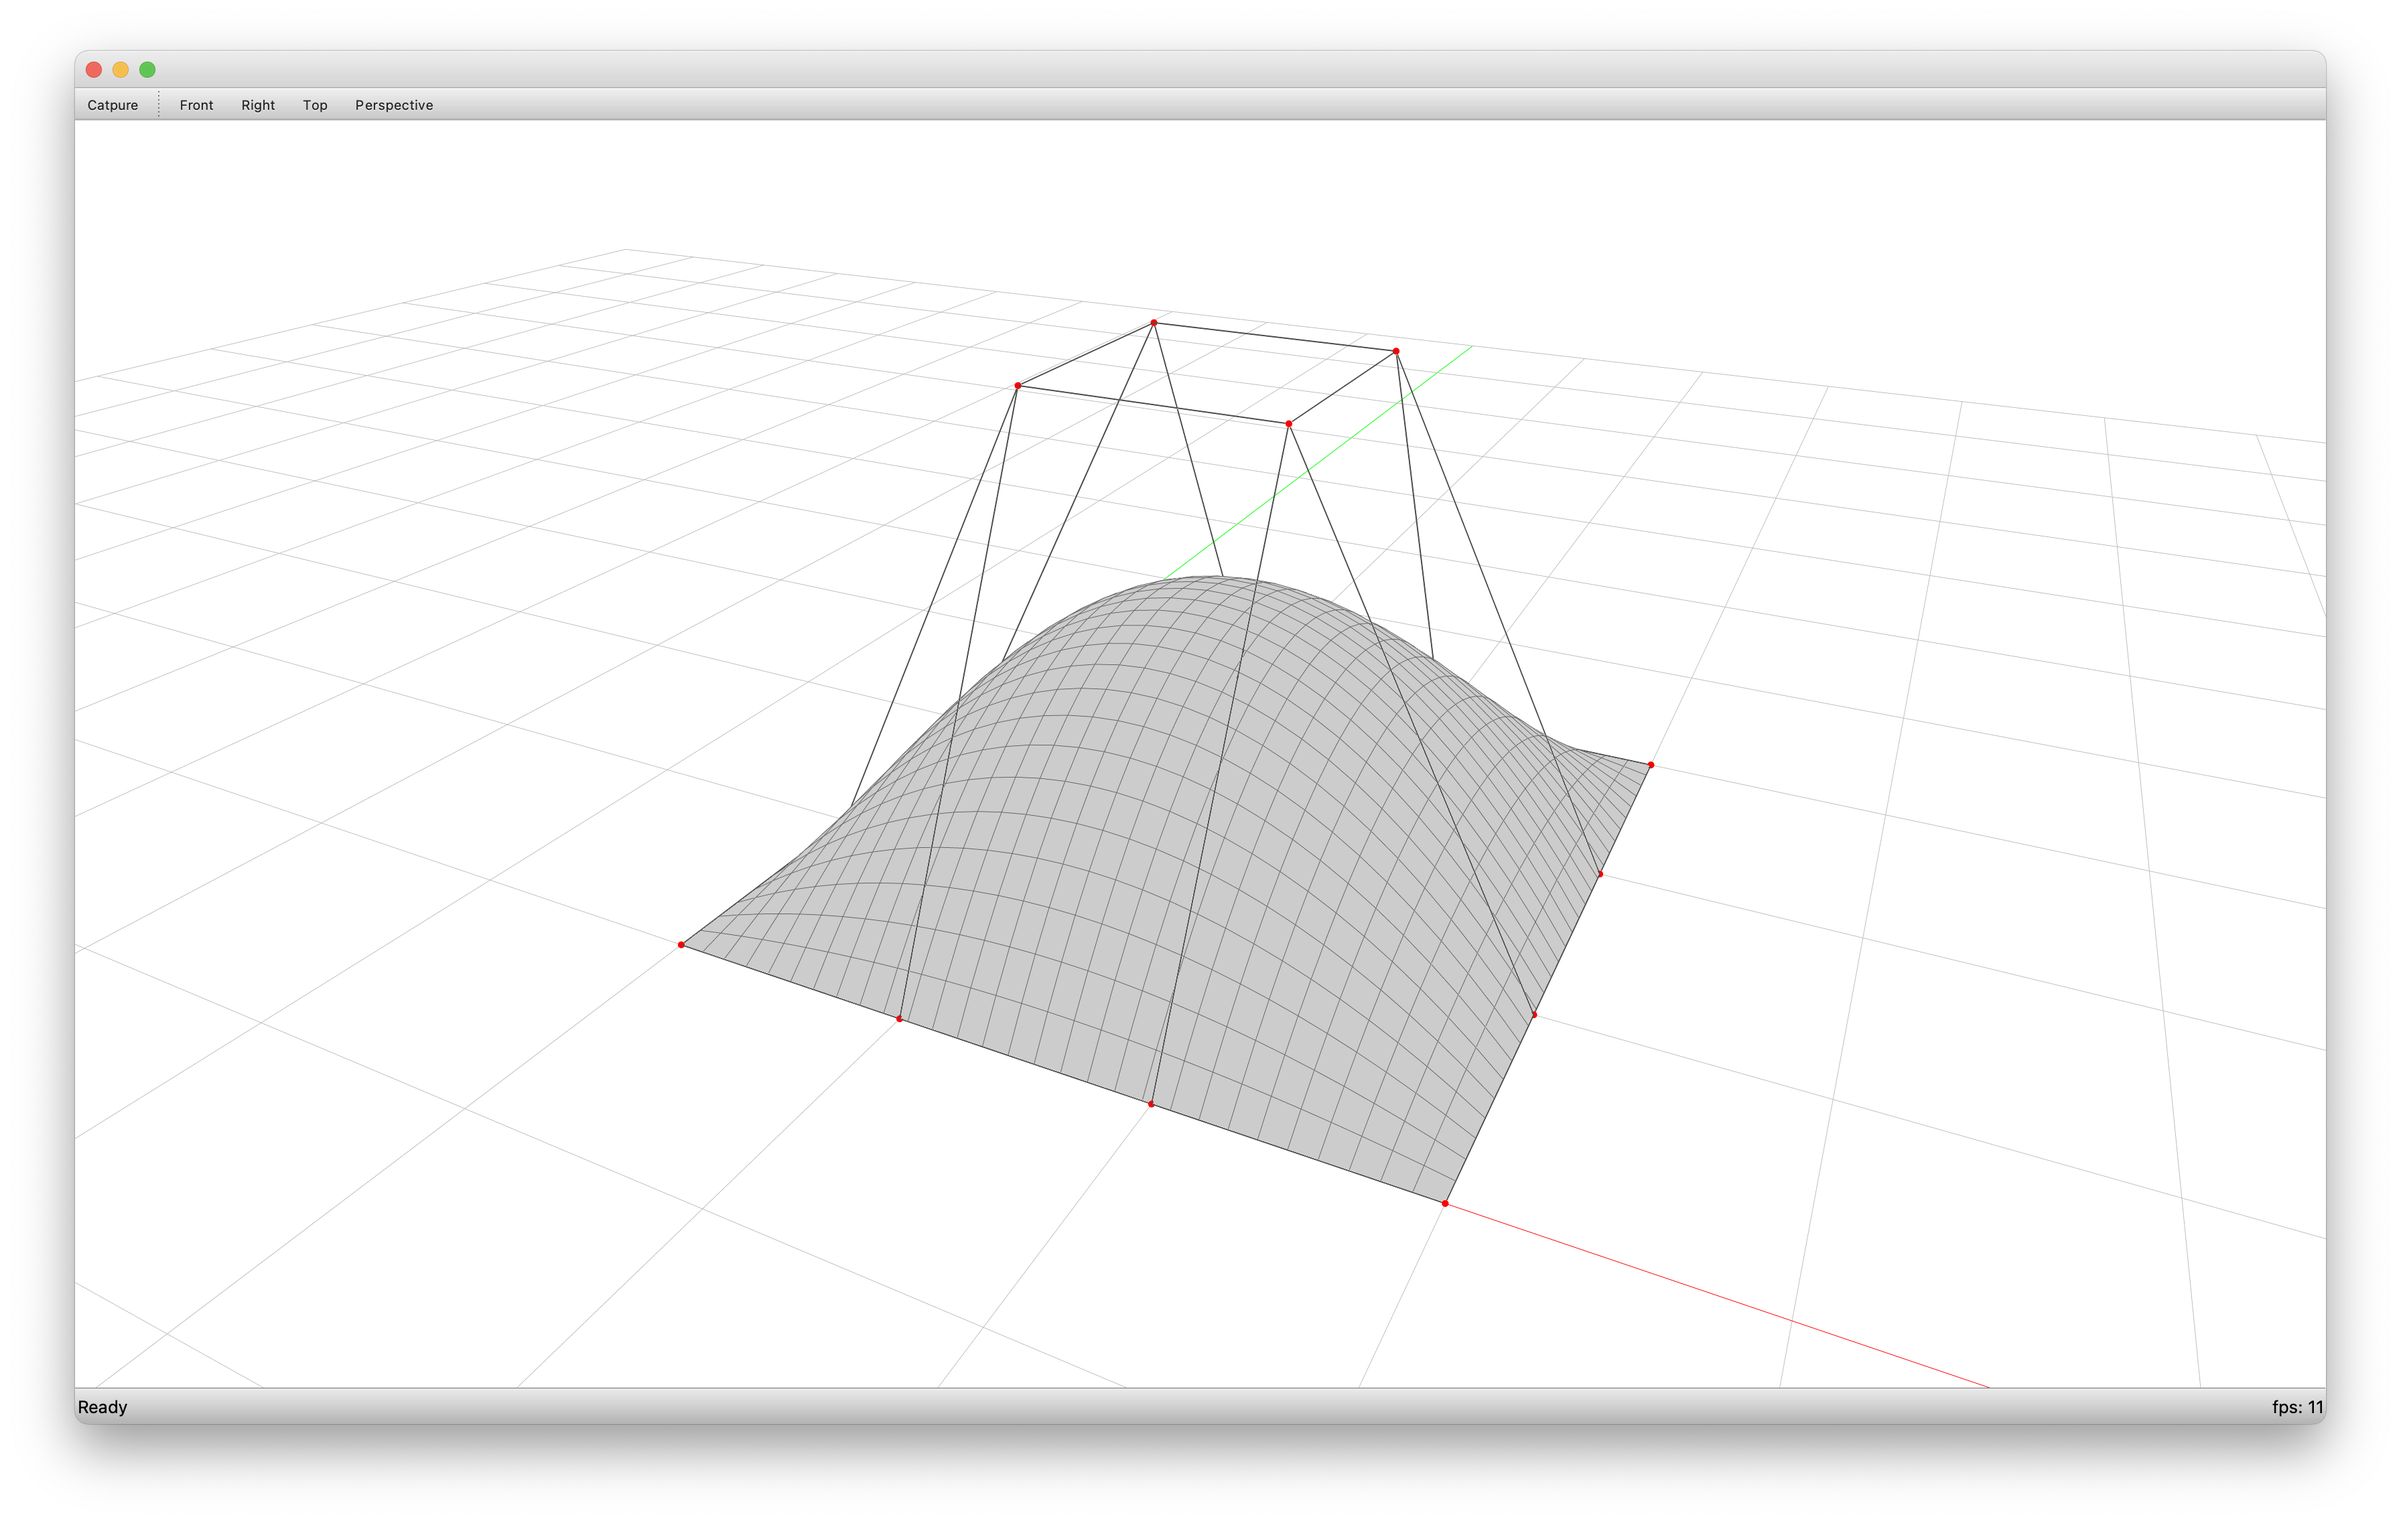
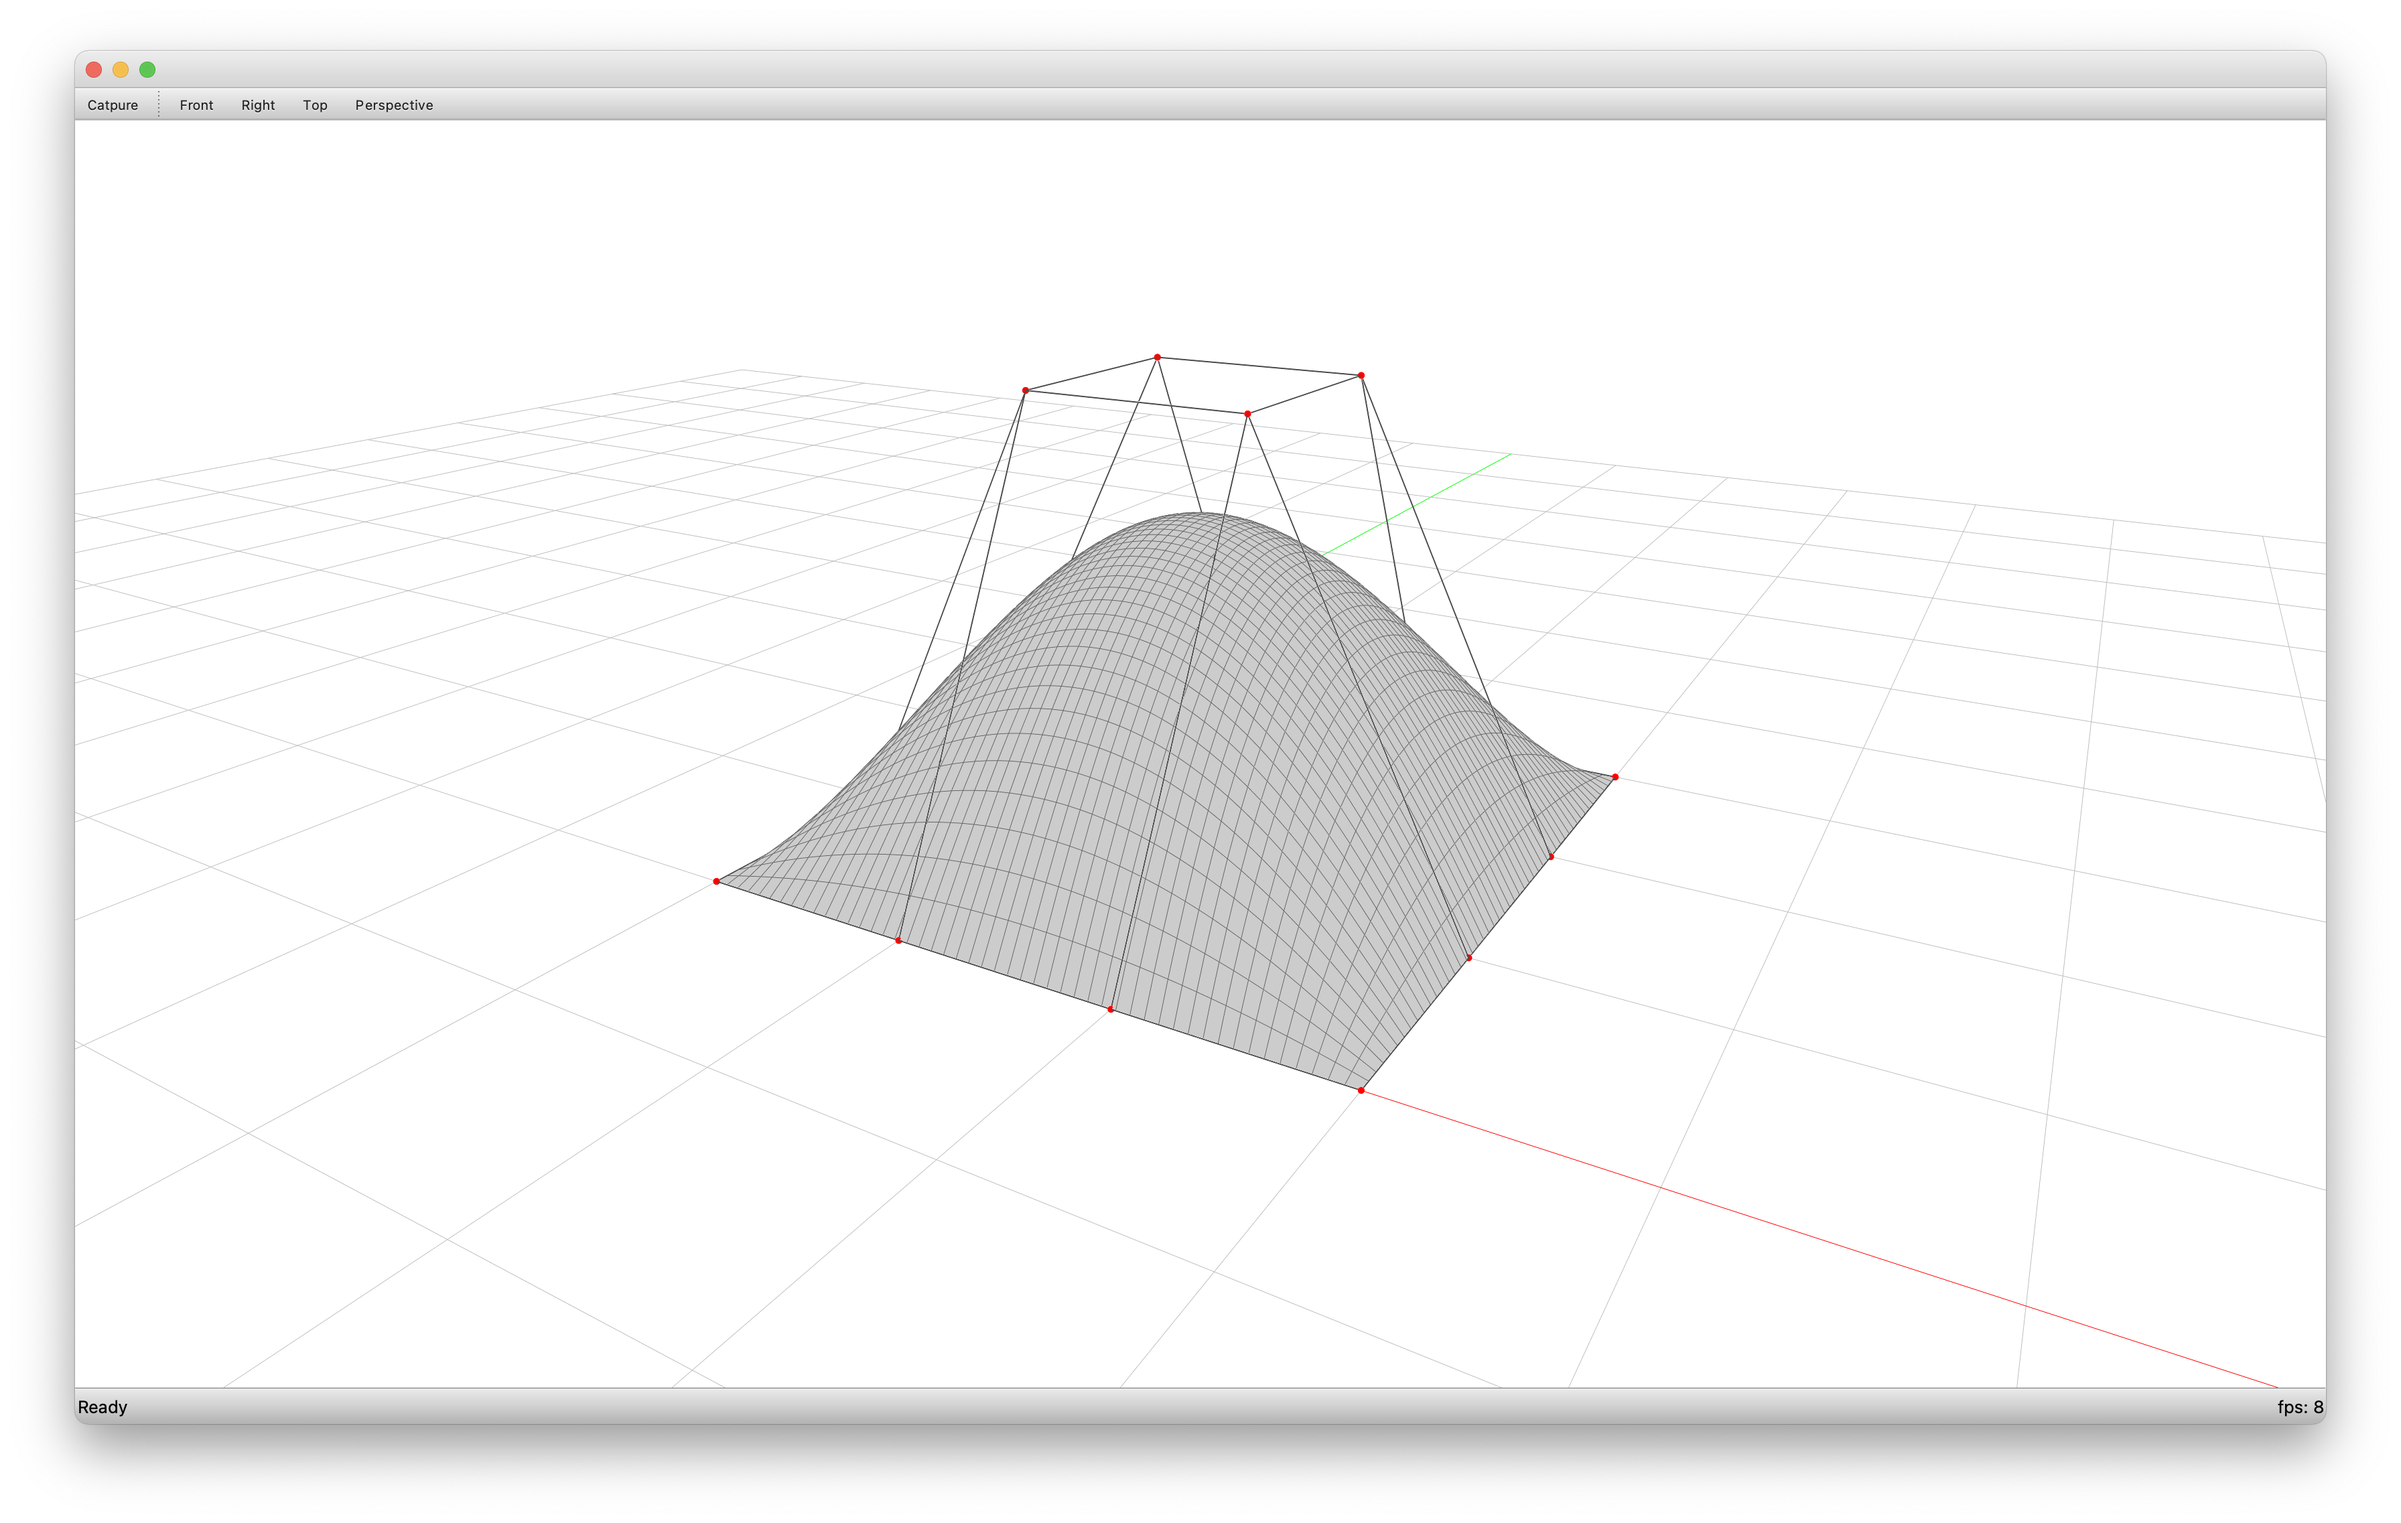
weights and from points examples

Changed region(s): [[0.2812, 0.2186, 0.6875, 0.8118], [0.9375, 0.9055, 0.9688, 0.9367], [0.3438, 0.2498, 0.375, 0.281]]

diff --git a/src/compas_occ/interop/__init__.py b/src/compas_occ/interop/__init__.py
@@ -13,9 +13,11 @@ Arrays
     :nosignatures:
 
     array1_from_floats1
+    array2_from_floats2
     array1_from_integers1
     array1_from_points1
     array2_from_points2
+    floats2_from_array2
     points1_from_array1
     points2_from_array2
 
@@ -50,11 +52,13 @@ Meshes
 """
 from .arrays import array1_from_integers1  # noqa: F401
 from .arrays import array1_from_floats1  # noqa: F401
+from .arrays import array2_from_floats2  # noqa: F401
 from .arrays import array1_from_points1  # noqa: F401
 from .arrays import harray1_from_points1  # noqa: F401
 from .arrays import array2_from_points2  # noqa: F401
 from .arrays import points1_from_array1  # noqa: F401
 from .arrays import points2_from_array2  # noqa: F401
+from .arrays import floats2_from_array2  # noqa: F401
 
 from .primitives import compas_point_to_occ_point  # noqa: F401
 from .primitives import compas_point_from_occ_point  # noqa: F401

diff --git a/docs/examples/surface_from_points.py b/docs/examples/surface_from_points.py
@@ -12,23 +12,7 @@ points = [
     [Point(0, 3, 0), Point(1, 3, 0), Point(2, 3, 0), Point(3, 3, 0)],
 ]
 
-weights = [
-    [1.0, 1.0, 1.0, 1.0],
-    [1.0, 2.0, 2.0, 1.0],
-    [1.0, 2.0, 2.0, 1.0],
-    [1.0, 1.0, 1.0, 1.0]
-]
-
-surface = NurbsSurface.from_parameters(
-    points=points,
-    weights=weights,
-    u_knots=[0.0, 1.0],
-    v_knots=[0.0, 1.0],
-    u_mults=[4, 4],
-    v_mults=[4, 4],
-    u_degree=3,
-    v_degree=3,
-)
+surface = NurbsSurface.from_points(points=points)
 
 print(surface)
 

diff --git a/docs/examples/surface_from_points.rst b/docs/examples/surface_from_points.rst
@@ -1,0 +1,10 @@
+********************************************************************************
+Surface From Points
+********************************************************************************
+
+.. figure:: /_images/example_surface_from_points.png
+    :figclass: figure
+    :class: figure-img img-fluid
+
+.. literalinclude:: surface_from_points.py
+    :language: python
